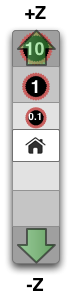
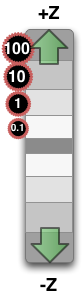
Updated XY controls to have 4 rings. Removed 'home' button.

diff --git a/xybuttons.py b/xybuttons.py
@@ -15,8 +15,8 @@ class XYButtons(BufferedCanvas):
         1: (78, 86),
         2: (49, 58)
     }
-    concentric_circle_radii = [17, 45, 83, 122]
-    center = (146, 149)
+    concentric_circle_radii = [15, 55, 86, 117, 142]
+    center = (166, 164)
     distance = [
         # Order of Magnitude 0 (i.e. 0.1, 1, 10)
         [
@@ -54,7 +54,7 @@ class XYButtons(BufferedCanvas):
 
         BufferedCanvas.__init__(self, parent, ID)
 
-        self.SetSize(wx.Size(297, 297))
+        self.SetSize(wx.Size(335, 328))
 
         # Set up mouse and keyboard event capture
         self.Bind(wx.EVT_LEFT_DOWN, self.OnLeftDown)
@@ -96,7 +96,7 @@ class XYButtons(BufferedCanvas):
             if radius < r:
                 return idx
             idx += 1
-        return 2
+        return None
     
     def setKeypadIndex(self, idx):
         self.keypad_idx = idx
@@ -131,11 +131,16 @@ class XYButtons(BufferedCanvas):
 
         mpos = event.GetPosition()
         idx = self.mouseOverKeypad(mpos)
+        self.quadrant = None
+        self.concentric = None
         if idx != None:
-            self.quadrant = None
             self.concentric = -1
         else:
-            self.quadrant, self.concentric = self.getQuadrantConcentricFromPosition(mpos)
+            center = wx.Point(XYButtons.center[0], XYButtons.center[1])
+            riseDist = self.distanceToLine(mpos, center.x-1, center.y-1, center.x+1, center.y+1)
+            fallDist = self.distanceToLine(mpos, center.x-1, center.y+1, center.x+1, center.y-1)
+            if riseDist > 10 and fallDist > 10:
+                self.quadrant, self.concentric = self.getQuadrantConcentricFromPosition(mpos)
         
         if oldq != self.quadrant or oldc != self.concentric:
             self.update()
@@ -185,13 +190,20 @@ class XYButtons(BufferedCanvas):
             center.y + r2*math.sin(angle1+i*angle_inc)) for i in range(parts, 0, -1)])
         dc.DrawPolygon(points)
     
+    def distanceToLine(self, pos, x1, y1, x2, y2):
+        xlen = x2 - x1
+        ylen = y2 - y1
+        pxlen = x1 - pos.x
+        pylen = y1 - pos.y
+        return abs(xlen*pylen-ylen*pxlen)/math.sqrt(xlen**2+ylen**2)
+    
     def highlightQuadrant(self, dc, quadrant, concentric):
         assert(quadrant >= 0 and quadrant <= 3)
-        assert(concentric >= 0 and concentric <= 2)
+        assert(concentric >= 0 and concentric <= 3)
 
         inner_ring_radius = XYButtons.concentric_circle_radii[0]
         # fudge = math.pi*0.002
-        fudge = 0
+        fudge = -0.02
         center = wx.Point(XYButtons.center[0], XYButtons.center[1])
         if quadrant == 0:
             a1, a2 = (-math.pi*0.25, math.pi*0.25)

diff --git a/zbuttons.py b/zbuttons.py
@@ -23,7 +23,7 @@ class ZButtons(BufferedCanvas):
 
         BufferedCanvas.__init__(self, parent, ID)
 
-        self.SetSize(wx.Size(71, 297))
+        self.SetSize(wx.Size(84, 295))
 
         # Set up mouse and keyboard event capture
         self.Bind(wx.EVT_LEFT_DOWN, self.OnLeftDown)
